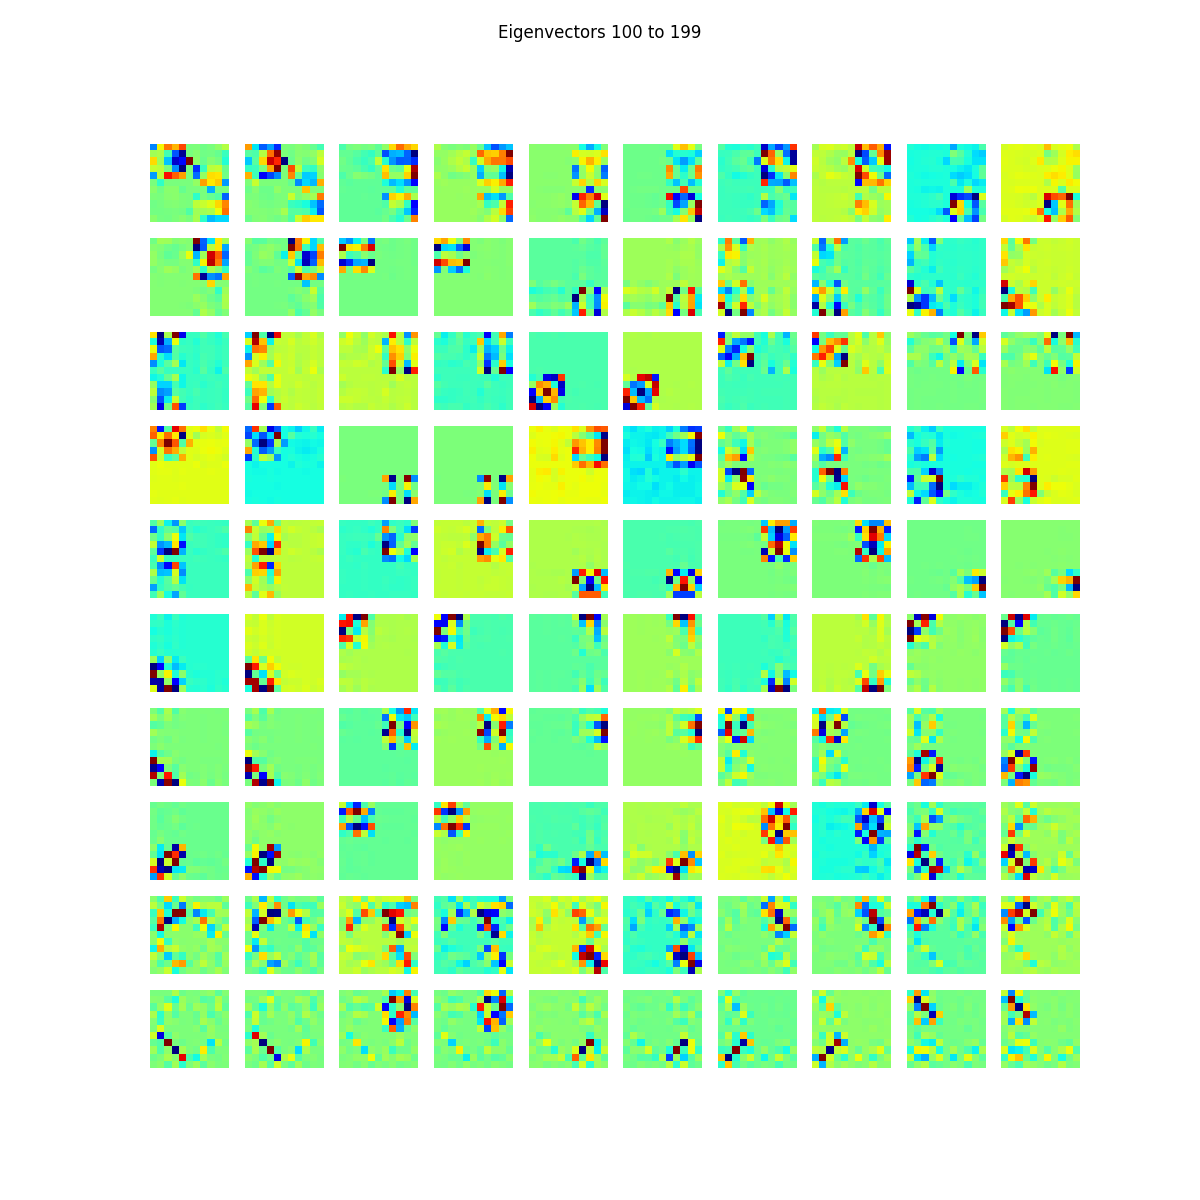
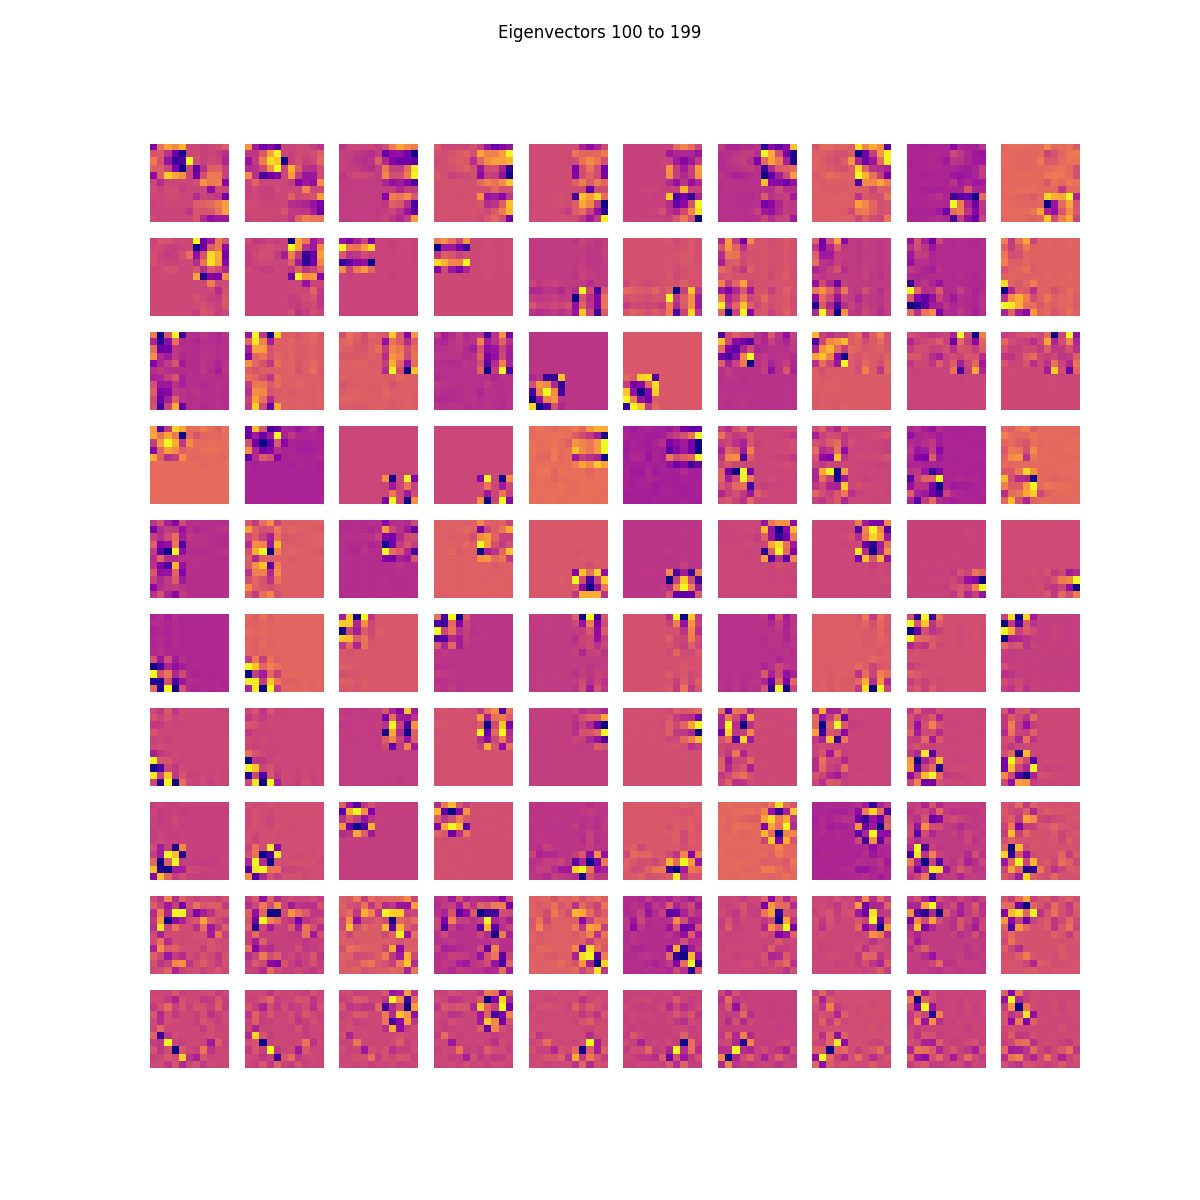
Fixed single page < 100 eigenvector plotting issue

diff --git a/options.py b/options.py
@@ -134,19 +134,19 @@ class Options(object):
     def display_eigenvector(self, env, idx=-1):
         max_row = env.max_row
         max_col = env.max_col
+
         eigvec_imgs = []
         quotient = 0
         
         for index, eig_vec in enumerate(self.eigenvectors):
             eigvec_img = np.zeros((max_row, max_col))
-
-
-
             count = 0
+
             for r in range(max_row):
                 for c in range(max_col):
                     eigvec_img[r, c] = eig_vec[count]
                     count += 1
+            
             eigvec_imgs.append(eigvec_img)
 
             # plot if time is right
@@ -157,15 +157,13 @@ class Options(object):
                     for j in range(10):
                         ax = plt.subplot2grid((10,10), (i,j))
                         try:
-                            ax.imshow(eigvec_imgs[(max_row-1)*i + j], cmap='jet', interpolation='nearest')
+                            ax.imshow(eigvec_imgs[10*i + j], cmap='plasma', interpolation='nearest')
                         except IndexError:
                             # this happens on the final page where we dont fill up all 100 subplots
-                            pass
+                            ax.imshow(np.zeros((max_row, max_col)), cmap='plasma', interpolation='nearest')
                         plt.axis('off')
+                        
                 plt.suptitle(f"Eigenvectors {quotient}00 to {index//100}99")
                 plt.savefig(f"assets/eigenvectors_{env.name}_{index+1}.png")
                 quotient += 1
                 eigvec_imgs = []
-
-
-        # plot_utils.print_eigen(v=self.eigenvectors[idx], max_col=env.max_col, max_row=env.max_row)

diff --git a/environment.py b/environment.py
@@ -8,17 +8,17 @@ default_action_set = [(0, 1), (0, -1), (1, 0), (-1, 0)] # R, L, D, U
 
 TERMINATE_ACTION = (0,0)
 
-def initialize_env(env_type):
+# def initialize_env(env_type):
 
-    if env_type == "Grid":
-        return GridEnvironment()
-    elif env_type == "4-Room":
-        return RoomEnvironment()
-    elif env_type == "I-Maze":
-        return I_MazeEnvironment()
-    else:
-        print("Invalid Environment: " + env_type)
-        exit()
+#     if env_type == "Grid":
+#         return GridEnvironment()
+#     elif env_type == "4-Room":
+#         return RoomEnvironment()
+#     elif env_type == "I-Maze":
+#         return I_MazeEnvironment()
+#     else:
+#         print("Invalid Environment: " + env_type)
+#         exit()
 
 # returns relevant environment information
 def parse_env(env_grid):
@@ -206,6 +206,18 @@ class I_MazeEnvironment(BaseEnvironment):
         self.max_row = max_row
         self.max_col = max_col
         self.name = "IMaze"
+
+        BaseEnvironment.__init__(self, max_row, max_col, start_state,
+                 goal_state, obstacles)
+
+
+class HallEnvironment(BaseEnvironment):
+    def __init__(self):
+        room_env = to_env_list('environments/hall.txt')
+        max_row, max_col, start_state, goal_state, obstacles = parse_env(room_env)
+        self.max_row = max_row
+        self.max_col = max_col
+        self.name = "hall"
 
         BaseEnvironment.__init__(self, max_row, max_col, start_state,
                  goal_state, obstacles)

diff --git a/plot_eigenvectors.py b/plot_eigenvectors.py
@@ -2,6 +2,6 @@ import environment
 import options
 
 # Environment we wish to find eigenvectors for
-opt_env = environment.RoomEnvironment()
+opt_env = environment.HallEnvironment()
 opt = options.Options(opt_env, alpha=0.1, epsilon=1.0, discount=0.9)
 opt.display_eigenvector(env=opt_env)

diff --git a/README.md b/README.md
@@ -1,4 +1,4 @@
-# laplacian_option_discovery
-Implementation of the paper "A Laplacian Framework for Option Discovery in Reinforcement Learning"
+# Laplacian Option Discovery
+An implementation of [A Laplacian Framework for Option Discovery in Reinforcement Learning](http://proceedings.mlr.press/v70/machado17a/machado17a.pdf)
 
 UNDER PROGRESS
